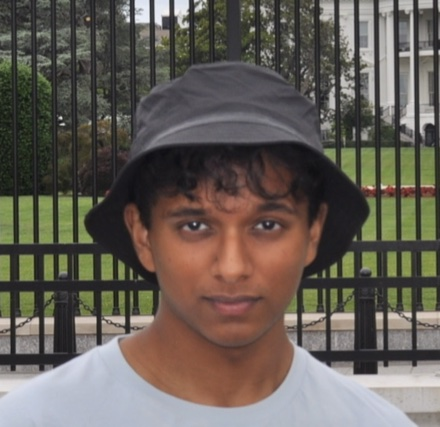
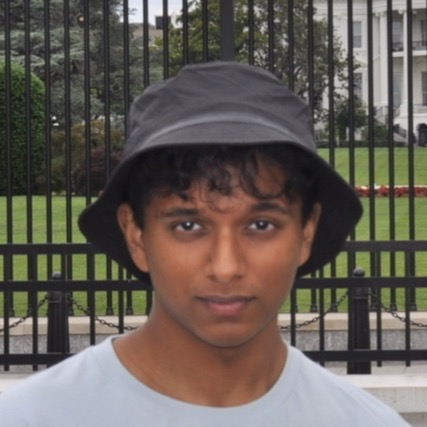
resume update

diff --git a/index.html b/index.html
@@ -333,6 +333,7 @@
         .portrait { position: relative; }
         .portrait img {
             width: 100%;
+            height: auto;
             aspect-ratio: 1;
             object-fit: cover;
             display: block;
@@ -847,7 +848,7 @@
                     </div>
 
                     <figure class="portrait">
-                        <img src="pfp.jpg" alt="Gokul Elangovan">
+                        <img src="pfp.jpg" alt="Gokul Elangovan" width="427" height="427">
                         <figcaption>@ the white house</figcaption>
                     </figure>
                 </div>
